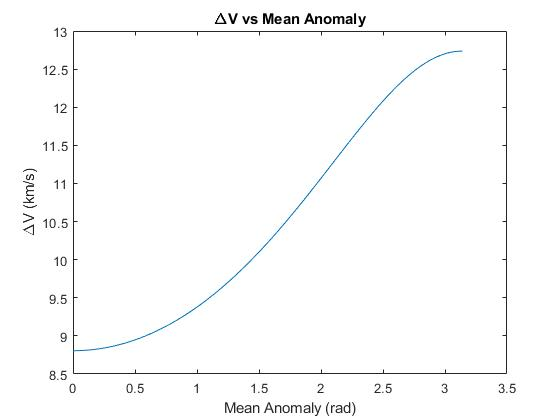
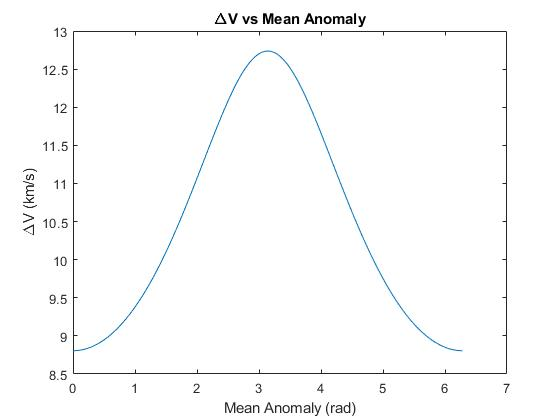
Updated jpg and added discussion of results

diff --git a/Space Mission Design and Navigation/Module 3/problem6.m b/Space Mission Design and Navigation/Module 3/problem6.m
@@ -16,7 +16,7 @@ AUtoKm = 149597870.7 % km
 a = 1.32489106722386 * AUtoKm; % km
 e = 0.255915584525353; % unitless
 
-f = 0:0.01:pi; % rads
+f = 0:0.01:2*pi; % rads
 r = (a*(1-e^2))./(1+e*cos(f)); % km
 v = sqrt( mu * (2./r - 1/a)); % km/s
 dv = sqrt(2*mu ./ r) - v ; % km/s
@@ -24,3 +24,8 @@ plot(f, dv);
 title("\DeltaV vs Mean Anomaly");
 xlabel("Mean Anomaly (rad)");
 ylabel("\DeltaV (km/s)");
+
+% Discussion
+% The minimum values are when we are at periapsis, because we will be
+% moving the fastest. The higher velocity mean we need less delta-v to
+% break out of orbit on an escape trajectory
